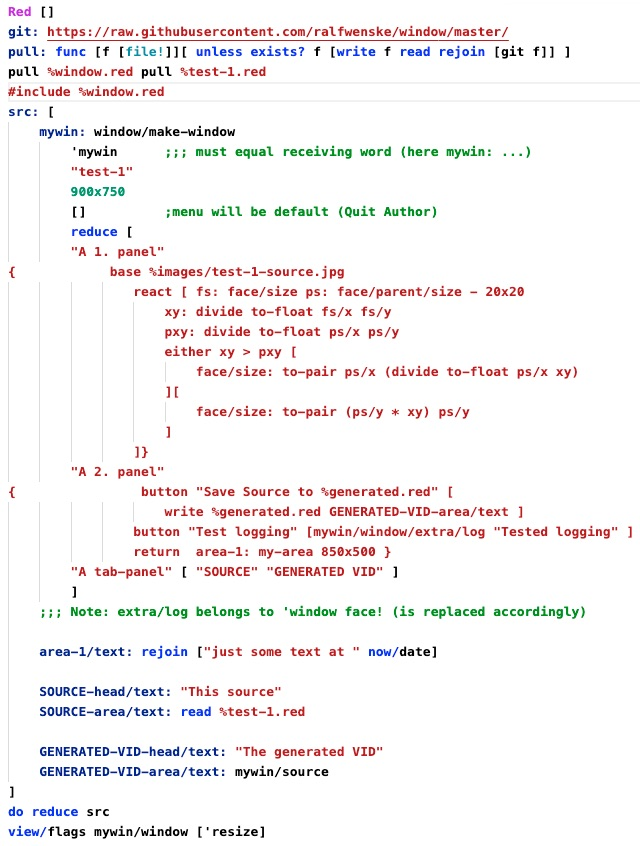
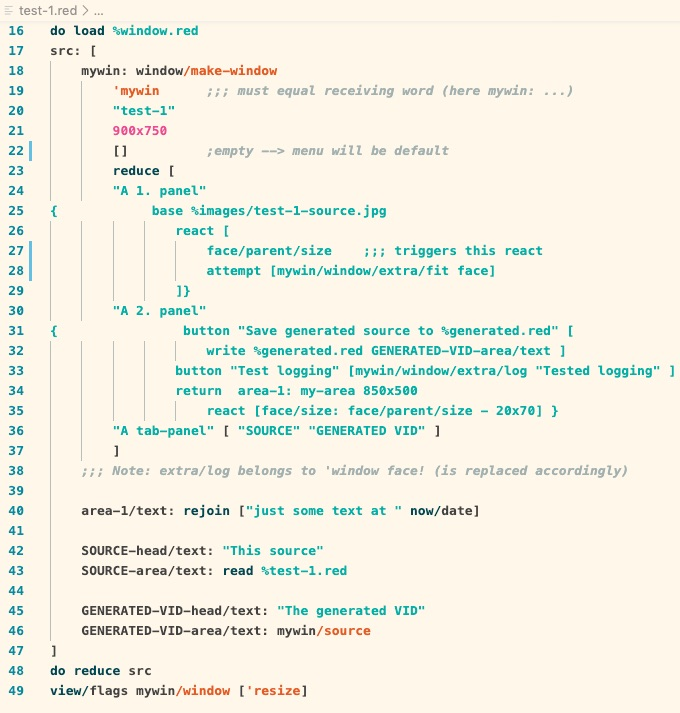
Readme updated

Changed region(s): [[0.0, 0.0, 1.0, 1.0], [0.8125, 0.1234, 0.8438, 0.1543]]

diff --git a/README.md b/README.md
@@ -2,43 +2,60 @@
  
  window/make-window creates a resizable view with tab-panels and areas.
 
- It is grown out of the need to quickly present data without spending much time with figuring out the details of VID. 
+ It is grown out of the need to be able to quickly present data without spending much time with the details of VID. 
 
- Here an example created by the included %test-1.red
+ Here the running app %test-1.red showing it's own source code.
+ ![View showing it's own source code as image](./images/test-1.jpg)
 
- ![View showing it's own source code](./images/test-1.jpg)
-
-The same run on Mint (GTK branch)
+The same run on Linux Mint GTK branch - (alignments need to be refined).
 
  ![Alignments are a bit out ](./images/test-1GTK.jpg)
 
 ```
 Red []
-git: https://raw.githubusercontent.com/ralfwenske/window/master/window.red 
-unless (true = (exists? %window.red)) [
-    write %window.red read git
+git: https://raw.githubusercontent.com/ralfwenske/window/master/ 
+pull: function [f [file!] /bin][ 
+    unless exists? f [
+        unless exists? p: first split-path f [make-dir p]
+        either bin [
+            save f load rejoin [git f]
+        ][
+            write f read rejoin [git f]
+        ] 
+    ]
 ]
-#include %window.red
+pull %window.red 
+pull %test-1.red 
+pull/bin %images/test-1-source.jpg
+do load %window.red
 src: [
     mywin: window/make-window  
         'mywin      ;;; must equal receiving word (here mywin: ...)
         "test-1"
-        700x700 
-        []          ;default menu
+        900x750 
+        []          ;empty --> menu will be default
         reduce [
-        "A panel" {
-            button "Save Source to %generated.red" [write %generated.red GENERATED-VID-area/text]
-            button "Test logging" [mywin/window/extra/log " Tested logging" ]
-            return
-            area-1: my-area 650x500} 
-        "A tab-panel" ["SOURCE" "GENERATED VID"]
+        "A 1. panel" 
+{            base %images/test-1-source.jpg
+                react [
+                    face/parent/size    ;;; triggers this react
+                    attempt [mywin/window/extra/fit face] 
+                ]}
+        "A 2. panel"  
+{                button "Save generated source to %generated.red" [
+                    write %generated.red GENERATED-VID-area/text ]
+                button "Test logging" [mywin/window/extra/log "Tested logging" ]
+                return  area-1: my-area 850x500
+                    react [face/size: face/parent/size - 20x70] } 
+        "A tab-panel" [ "SOURCE" "GENERATED VID" ]
         ]        
-    ;;; Note: extra/log belongs to 'window face! is replace in src
-    ;;; [mywin/...] must equal first parameter for window/make-window call (above)
+    ;;; Note: extra/log belongs to 'window face! (is replaced accordingly)
 
     area-1/text: rejoin ["just some text at " now/date]
+
     SOURCE-head/text: "This source"
-    SOURCE-area/text: mold src      ;;; <-- why we reduce after
+    SOURCE-area/text: read %test-1.red
+
     GENERATED-VID-head/text: "The generated VID"
     GENERATED-VID-area/text: mywin/source    
 ]
@@ -56,9 +73,10 @@ The generated code can be saved to a file which should show the view
 
 
 Note:
-    When playing with these or your own you will find a few little things that still need to be resolved - eg.
-    on macOS: text wrapping
-    on GTK: alignment issues, text wrapping, 'Cancel' on dialog shuts the app down
+    When playing with these tests or your own you may find a few little things that still need to be resolved - eg.
+        on macOS: text wrapping
+        on GTK: alignment issues, text wrapping
+            Hitting 'Cancel' on dialog shuts the app down
     
-    The code is not the most elegant and I welcome suggestions for improvement.
-    And of course bugs that might lure in there
+    The code probably has much room for improvement and I welcome suggestions.
+    And `window/make-window` 
